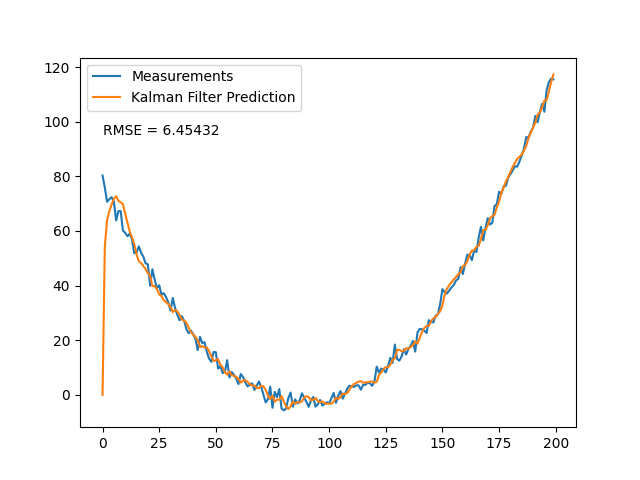
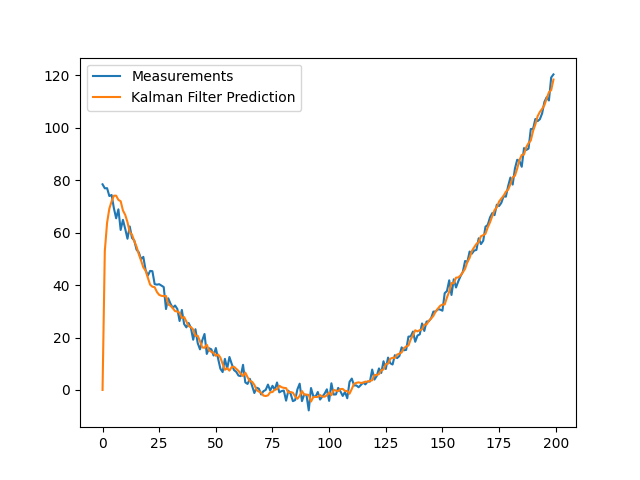
update rmse fun

diff --git a/kalman_filter.py b/kalman_filter.py
@@ -66,7 +66,7 @@ class KalmanFilter():
         if len(estimations) != len(ground_truth) or len(estimations) == 0:
             raise ValueError('calculate_rmse () - Error - estimations and ground_truth must match in length.')
 
-        rmse = np.zeros((self.dim_z, self.dim_z))
+        rmse = np.zeros((self.dim_x, 1))
 
         for est, gt in zip(estimations, ground_truth):
             rmse += np.square(est - gt)
@@ -99,12 +99,8 @@ if __name__ == '__main__':
         pred_measurment = kf.update(z)
         predictions.append(pred_measurment[0])
 
-    rmse = kf.calculate_rmse(predictions, measurements)
-    print(rmse)
-
     plt.plot(range(len(measurements)), measurements, label = 'Measurements')
     plt.plot(range(len(predictions)), np.array(predictions), label = 'Kalman Filter Prediction')
-    plt.text(0, 95, 'RMSE = {}'.format(rmse[0, 0].round(5)))
     plt.legend()
     plt.savefig('./assert/kf_out.png')
     plt.show()
